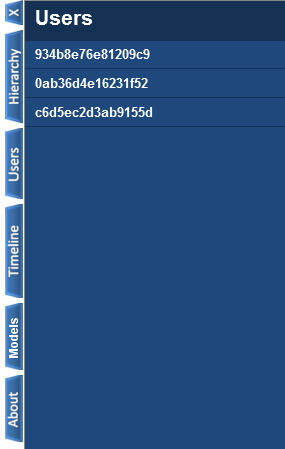
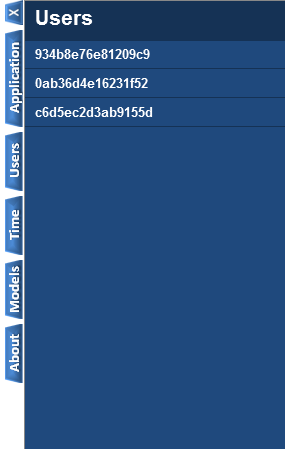
Updating editor documentation page
git-svn-id: http://svn.virtualworldframework.com/vwf/development@2320 775f9103-8eee-4f94-88be-65e0ca6d8b75

Changed region(s): [[0.0, 0.0624, 0.0842, 0.9978]]

diff --git a/web/docs/editor.md b/web/docs/editor.md
@@ -1,7 +1,7 @@
 Editor
 ===================
 -------------------
-The editor capability of the Virtual World Framework allows for the application to be edited in a live environment. Changes to scripts and properties within the editor are replicated across all clients in the system. 
+The editor capability of the Virtual World Framework allows for the application to be edited in a live environment. It provides full control to the user and has the ability to navigate through the current state of the application, consisting of its various nodes and properties. The editor allows changes to be made to the shared simulation by setting properties, calling methods, and firing events. 
 
 -------------------
 
@@ -12,9 +12,9 @@ To open the editor interface, move the mouse to the upper ride side of the scree
 
 The editor consists of five tabs:
 
-* Hierarchy
+* Application
 * Users
-* Timeline
+* Time
 * Models
 * About
 
@@ -22,12 +22,50 @@ To close the editor, rollover just to the left of the upper left corner of the e
 
 -------------------
 
-Hierarchy
+Application
 -------------------
 
-The Hierarchy tab displays a list of all scripts, behaviors, properties, children, methods, and events in the application. In addition, this tab provides a drill down capability on selected items, allowing complete navigation of the scene structure. Some items can also be edited directly with text based inputs.
+The Application tab displays a list of all children, properties, methods, events, behaviors, and scripts in the application. In addition, this tab provides a drill down capability on selected items, allowing complete navigation of the scene structure. Some items can also be edited directly with text based inputs.
 
 <div style='width:100%;text-align:center'><img src='images/editor_hierarchy.png' alt='hierarchy' /></div>
+
+**Properties**
+
+All properties of a given node can be edited while the application is running. Using the editor interface, drill down into the appropriate node, or find the property in the application's property list. The property value can simply be edited by entering or changing the value and clicking the *Enter* key.
+
+<div style='width:100%;text-align:center'><img src='images/editor_properties.png' alt='properties' /></div>
+
+Properties may be booleans, numbers, or strings, and their values are represented in form they would be as a javascript format. Strings must be quoted, and arrays must be intered in the form of *[ 0, 0, 0 ]*. Values can also be null or undefined.
+
+**Methods**
+
+All methods associated with the current node are listed in the editor. They can be called directly from the main window, if they do not require parameters, by clicking the *Call* button. If parameters are required for a method, a white arrow will appear by rolling over the right of the *Call* button. Clicking the white arrow will drill down into the method, and parameters can be specified in the given text fields. The *Call* button can then be clicked from the header. To go back to the node, select the white back arrow in the upper left corner. 
+
+<div style='width:100%;text-align:center'>
+<img src='images/editor_method.png' alt='method' />
+<img src='images/editor_method_2.png' alt='method' />
+</div>
+
+**Events**
+
+All events associated with the current node are listed in the editor. They can be fired directly from the main window, if they do not require parameters, by clicking the *Fire* button.  If parameters are required for an event, a white arrow will appear by rolling over the right of the *Fire* button. Clicking the white arrow will drill down into the event, and parameters can be specified in the given text fields. The *Fire* button can then be clicked from the header. To go back to the node, select the white back arrow in the upper left corner. 
+
+<div style='width:100%;text-align:center'>
+<img src='images/editor_event.png' alt='event' />
+<img src='images/editor_event_2.png' alt='event' />
+</div>
+
+**Children**
+
+All children of the current node are listed in the editor, and each can be drilled into to see a level deeper in the tree structure. Each child node is marked with a white arrow to the right of the child's name. Click on any child in the list in order to drill down. The new node information will be displayed including any scripts, behaviors, properties, children, methods, and events associated with the node. 
+
+<div style='width:100%;text-align:center'><img src='images/editor_children.png' alt='children' /></div>
+
+**Behaviors**
+
+Behaviors can be attached to any node in the scene. For all nodes with behaviors, upon drilling into the selected node, a list of all implemented behaviors will be displayed. 
+
+<div style='width:100%;text-align:center'><img src='images/editor_behavior.png' alt='behavior' /></div>
 
 **Scripts**
 
@@ -37,51 +75,13 @@ Scripts can be both created and edited in the editor interface.
 
 *Creating New Script*
 
-To create a new script, click on the *New Script* item listed first. Click in the text area that appears to give it focus. The editor window will expand to allow more room for typing the script. A new script can be added here that extends an existing function, for example, mouse events, or can be brand new. Once the script is ready to go, click on the *Create* button at the bottom of the editor. The script will be created on the current node of the editor. For example, if no drill downs have occurred, the script will be directly on the application. On the other hand, if the user drilled down to a child node, the script will be created directly on that child. To exit to script editor, either close the editor by selecting the *X* tab or selecting the back arrow in the upper left corner to drill back up to the node. 
+To create a new script on a node in the application hierarchy, click on the *New Script* item listed first. Click in the text area that appears to give it focus. The editor window will expand to allow more room for typing the script. A new script can be added here that extends an existing function, for example, mouse events, or can be brand new. Once the script is ready to go, click on the *Create* button at the bottom of the editor. To exit to script editor, either close the editor by selecting the *X* tab or selecting the back arrow in the upper left corner to drill back up to the node. 
 
 *Editing Script*
 
-To edit an existing script, click on the corresponding script listed in the editor on the appropriate node. The script editor will open, displaying the current script. Click in the text area to expand the editor working area. Make any updates as needed, and click the *Update* button at the bottom of the editor. The script will update on the current node, and will be replicated across all clients currently in the application. To exit to script editor, either close the editor by selecting the *X* tab or selecting the back arrow in the upper left corner to drill back up to the node. 
+To edit an existing script, click on the corresponding script listed in the editor on the appropriate node. The script editor will open, displaying the current script. Click in the text area to expand the editor working area. Make any updates as needed, and click the *Update* button at the bottom of the editor. To exit to script editor, either close the editor by selecting the *X* tab or selecting the back arrow in the upper left corner to drill back up to the node. 
 
 <div style='width:100%;text-align:center'><img src='images/editor_script.png' alt='script' /></div>
-
-**Behaviors**
-
-Behaviors can be attached to any node in the scene. For all nodes with behaviors, upon drilling into the selected node, a list of all implemented behaviors will be displayed. 
-
-<div style='width:100%;text-align:center'><img src='images/editor_behavior.png' alt='behavior' /></div>
-
-**Properties**
-
-All properties of a given node can be edited while the application is running. Using the editor interface, drill down into the appropriate node, or find the property in the application's property list. The property value can simply be edited by entering or changing the value and clicking the *Enter* key.
-
-<div style='width:100%;text-align:center'><img src='images/editor_properties.png' alt='properties' /></div>
-
-Numerical and boolean properties as well as values of null and undefined can be entered as is directly in the text box. String based values can be entered with quotations, and arrays can be entered directly in the form of *[ 0, 0, 0 ]*.
-
-**Children**
-
-All children of the current node are listed in the editor, and each can be drilled into to see a level deeper in the tree structure. Each child node is marked with a white arrow to the right of the child's name. Click on any child in the list in order to drill down. The new node information will be displayed including any scripts, behaviors, properties, children, methods, and events associated with the node. 
-
-<div style='width:100%;text-align:center'><img src='images/editor_children.png' alt='children' /></div>
-
-**Methods**
-
-All methods associated with the current node are listed in the editor. They can be called directly from the main window, or drilled into to set specific parameters. Clicking the *Call* button will call the method directly. If the mouse rolls over just to the right of the button, a white arrow will appear. Clicking the white arrow will drill down into the method. Here parameters can be specified in the given text fields. The *Call* button can then be clicked from the header. To go back to the node, select the white back arrow in the upper left corner. 
-
-<div style='width:100%;text-align:center'>
-<img src='images/editor_method.png' alt='method' />
-<img src='images/editor_method_2.png' alt='method' />
-</div>
-
-**Events**
-
-All events associated with the current node are listed in the editor. They can be fired directly from the main window, or drilled into to set specific parameters. Clicking the *Fire* button will fire the method directly. If the mouse rolls over just to the right of the button, a white arrow will appear. Clicking the white arrow will drill down into the event. Here parameters can be specified in the given text fields. The *Fire* button can then be clicked from the header. To go back to the node, select the white back arrow in the upper left corner. 
-
-<div style='width:100%;text-align:center'>
-<img src='images/editor_event.png' alt='event' />
-<img src='images/editor_event_2.png' alt='event' />
-</div>
 
 -------------------
 
@@ -94,10 +94,10 @@ The Users tab shows a list of all user IDs currently in the application instance
 
 -------------------
 
-Timeline
+Time
 -------------------
 
-The Timeline tab contains a pause and stop button which, when pressed, will pause and stop the application clock, respectively. In this case, the pause button will change to a play button which will allow the clock to be started again. Additionally, the Timeline tab also allows the clock speed to be adjusted to be faster or slower, depending on where the slider is dragged. The rate will be numerically displayed below in relation to the normal time.
+The Time tab contains a pause and stop button which, when pressed, will pause and stop the application clock, respectively. In this case, the pause button will change to a play button which will allow the clock to be started again. Additionally, the Timeline tab also allows the clock speed to be adjusted to be faster or slower, depending on where the slider is dragged. The rate will be numerically displayed below in relation to the normal time.
 
 <div style='width:100%;text-align:center'><img src='images/editor_timeline.png' alt='timeline' /></div>
 
@@ -106,7 +106,7 @@ The Timeline tab contains a pause and stop button which, when pressed, will paus
 Models
 -------------------
 
-The Models tab allows for the creation of new children in the scene. Upon opening the tab, a list of all available models on the server is displayed. Clicking on any of the listed models will drill down into that model, allowing the user to set some initial properties, including the rotation, scale, and translation offset(distance from the drop location). After setting these properties, the user can then drag the *Drag to Create* area and drop it on any location in the scene. Upon the drop, the new object will be created with the specified properties. 
+The Models tab is a listing of assets on the server that are available for dragging into the application, creating new children in the scene. Upon opening the tab, a list of all available models on the server is displayed. Clicking on any of the listed models will drill down into that model, allowing the user to set properties of the node to be created, including the rotation, scale, and translation offset (distance from the drop location). After setting these properties, the user can then drag the *Drag to Create* area and drop it on any location in the scene. Upon the drop, the new object will be created with the specified properties. 
 
 <div style='width:100%;text-align:center'>
 <img src='images/editor_models.png' alt='models' />
